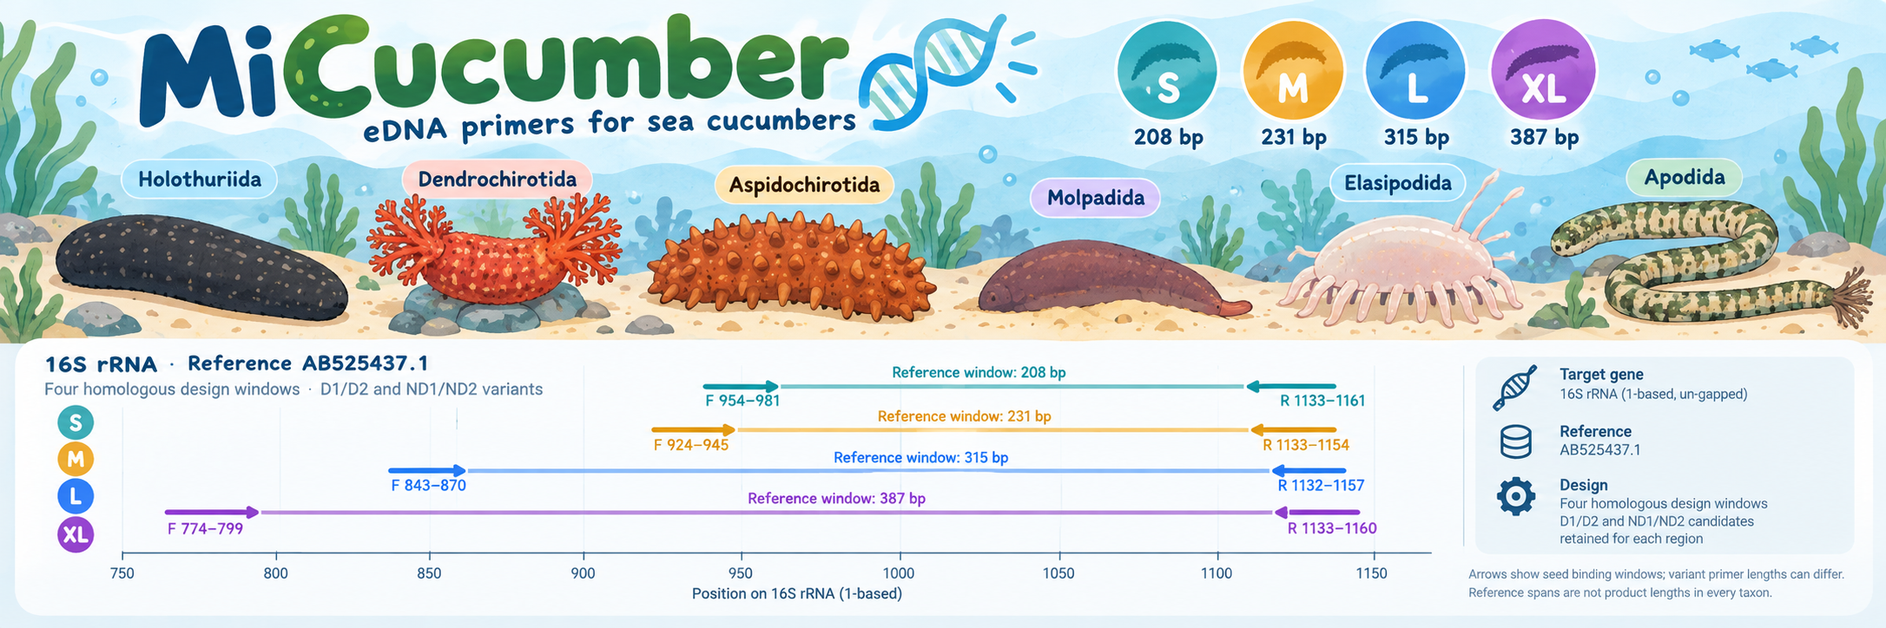
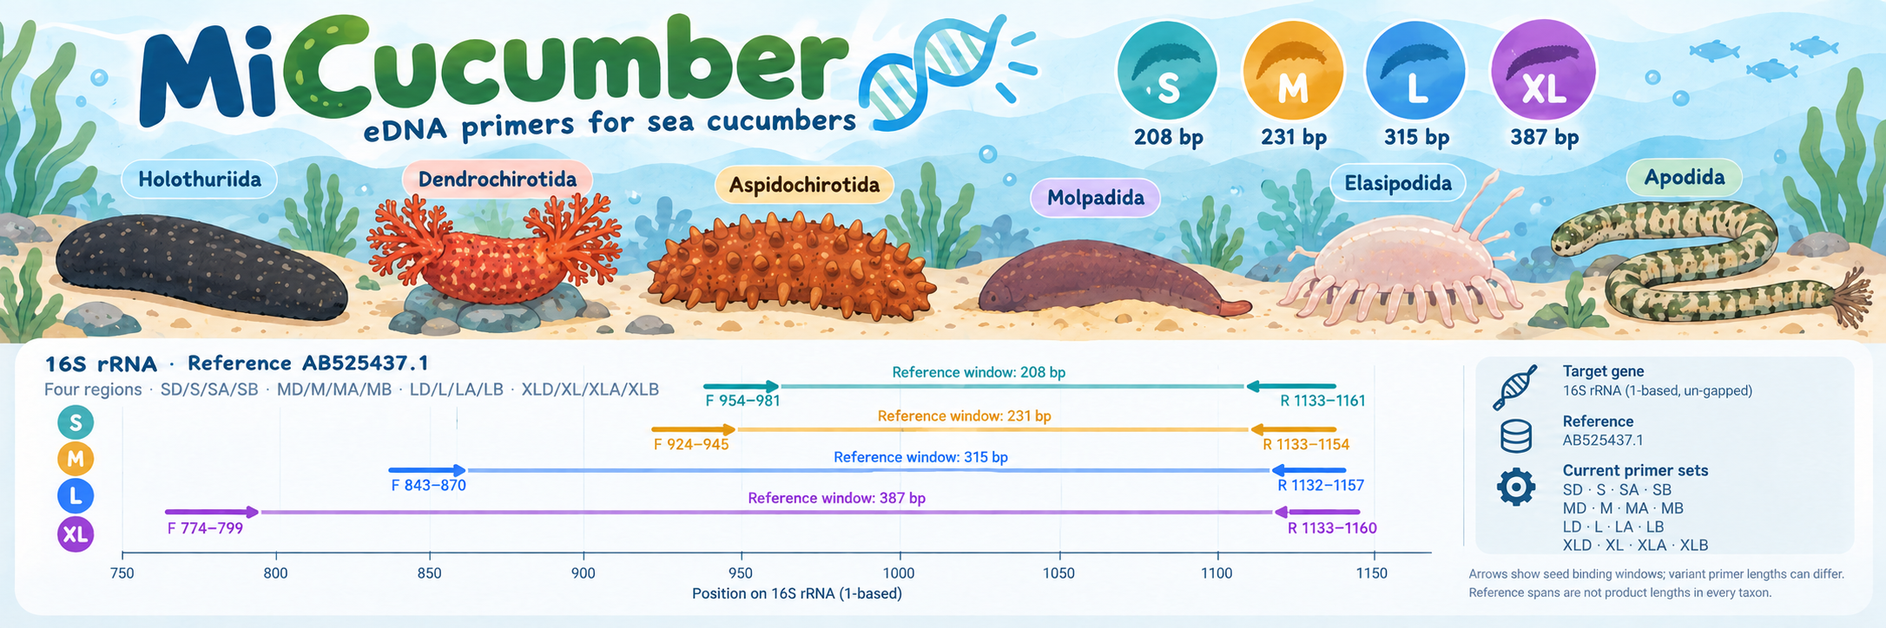
Correct illustrated primer names and reconcile current bilingual documentation

diff --git a/report.html b/report.html
@@ -1,1 +1,1 @@
-<!doctype html><html lang="zh-CN"><meta charset="utf-8"><meta name="viewport" content="width=device-width,initial-scale=1"><title>MiCucumber S M L XL</title><style>body{max-width:1280px;margin:40px auto;padding:0 24px;font:16px/1.7 system-ui;color:#19392f;background:#f7faf8}h1,h2,a{color:#176344}.scroll{overflow-x:auto}table{border-collapse:collapse;background:white;width:100%;font-size:13px}td,th{padding:10px;border-bottom:1px solid #cbdad3;text-align:left;white-space:nowrap}th{background:#dfede5}p{max-width:1100px}</style><img src="figures/MiCucumber_overview.png" style="width:100%" alt="MiCucumber overview"><p>插画中的配对标注以当前表格为准 / Current pair names are given in the tables below.</p><h1>MiCucumber · S / M / L / XL</h1><p>简并：SD、MD、LD、XLD；普通单对：S、M、L、XL；普通两对：SA/SB、MA/MB、LA/LB、XLA/XLB。<br>D: degenerate; A/B: component pairs. A+B denotes their combined coverage.</p><p><b>建议首先实验验证 S-D-1pair；无简并版保留为对照，S-original有较高非目标命中。/ Prioritize S-D-1pair for experimental evaluation; ND sets are comparators, and S-original has extensive background hits.</b> 所有方案尚无湿实验验证。 / No wet-lab validation.</p><p><a href="README.zh-CN.md">中文概览</a> · <a href="README.md">English overview</a> · <a href="sequences/primer_pairs.csv">全部序列 CSV</a> · <a href="sequences/primers.fasta">FASTA</a> · <a href="docs/REPRODUCIBILITY.md">复现 / Reproduction</a></p><img src="figures/amplicon_regions.en.svg" alt="S M L XL reference design windows" style="width:100%;max-width:1100px"><p>共同面板151个分类名称标签、351个标签内单倍型；非Apodida为145个标签。标签及标签内单倍型等权。背景命中以5,600条记录的accession并集计，不是reads比例。/ Common panel: 151 name labels, 351 within-label haplotypes; 145 non-Apodida labels. Equal label and within-label haplotype weighting. Background counts are accession unions, not read fractions.</p><h2>各长度匹配情况 / Matching by length</h2><p>蓝绿色：完全匹配；金黄色：允许错配命中；浅灰色：未命中。每列为一个单倍型，柱图为非Apodida加权比例。A、B单独显示，并给出合并覆盖。<br>Teal: exact; gold: mismatch-tolerant hit; light gray: missed. Heatmaps show individual haplotypes; bars use non-Apodida weights.</p><img src="figures/matching_S.png" style="width:100%" alt="S matching"><img src="figures/matching_M.png" style="width:100%" alt="M matching"><img src="figures/matching_L.png" style="width:100%" alt="L matching"><img src="figures/matching_XL.png" style="width:100%" alt="XL matching"><p><a href="results/matching/summary.csv">匹配汇总 / Summary</a> · <a href="results/matching/detection.csv">逐条结果 / Per-reference results</a></p><h2>简并版 / Degenerate</h2><div class="scroll"><table><thead><tr><th>方案 / Portfolio</th><th>非Apodida覆盖 / Coverage</th><th>非Apodida完全匹配 / Exact</th><th>全部目标覆盖 / All coverage</th><th>全部目标完全匹配 / All exact</th><th>WC≤3</th><th>GT≤2</th><th>WC≤4</th></tr></thead><tbody><tr><td>SD</td><td>87.45%</td><td>27.48%</td><td>83.97%</td><td>26.39%</td><td>2</td><td>0</td><td>742</td></tr><tr><td>MD</td><td>56.90%</td><td>9.43%</td><td>54.64%</td><td>9.05%</td><td>0</td><td>0</td><td>130</td></tr><tr><td>LD</td><td>70.26%</td><td>33.63%</td><td>67.47%</td><td>32.30%</td><td>4</td><td>0</td><td>109</td></tr><tr><td>XLD</td><td>48.34%</td><td>9.71%</td><td>46.42%</td><td>9.33%</td><td>0</td><td>0</td><td>486</td></tr></tbody></table></div><h2>无简并对照 / Nondegenerate comparators</h2><div class="scroll"><table><thead><tr><th>方案 / Portfolio</th><th>非Apodida覆盖 / Coverage</th><th>非Apodida完全匹配 / Exact</th><th>全部目标覆盖 / All coverage</th><th>全部目标完全匹配 / All exact</th><th>WC≤3</th><th>GT≤2</th><th>WC≤4</th></tr></thead><tbody><tr><td>S</td><td>56.78%</td><td>0.34%</td><td>54.53%</td><td>0.33%</td><td>0</td><td>0</td><td>2</td></tr><tr><td>SA+SB</td><td>71.96%</td><td>0.34%</td><td>69.10%</td><td>0.33%</td><td>0</td><td>0</td><td>2</td></tr><tr><td>M</td><td>14.05%</td><td>0.00%</td><td>13.49%</td><td>0.00%</td><td>0</td><td>0</td><td>0</td></tr><tr><td>MA+MB</td><td>23.70%</td><td>3.91%</td><td>22.76%</td><td>3.75%</td><td>0</td><td>0</td><td>0</td></tr><tr><td>L</td><td>35.24%</td><td>3.97%</td><td>33.84%</td><td>3.81%</td><td>0</td><td>0</td><td>0</td></tr><tr><td>LA+LB</td><td>46.68%</td><td>8.00%</td><td>44.83%</td><td>7.69%</td><td>0</td><td>0</td><td>0</td></tr><tr><td>XL</td><td>22.88%</td><td>2.93%</td><td>21.97%</td><td>2.81%</td><td>0</td><td>0</td><td>0</td></tr><tr><td>XLA+XLB</td><td>28.86%</td><td>5.23%</td><td>27.71%</td><td>5.02%</td><td>0</td><td>0</td><td>1</td></tr></tbody></table></div><h2>原版对照 / Original control</h2><div class="scroll"><table><thead><tr><th>方案 / Portfolio</th><th>非Apodida覆盖 / Coverage</th><th>非Apodida完全匹配 / Exact</th><th>全部目标覆盖 / All coverage</th><th>全部目标完全匹配 / All exact</th><th>WC≤3</th><th>GT≤2</th><th>WC≤4</th></tr></thead><tbody><tr><td>MiCucumber-S-original</td><td>89.84%</td><td>76.75%</td><td>86.27%</td><td>73.70%</td><td>3248</td><td>3401</td><td>3923</td></tr></tbody></table></div><p><a href="results/degenerate/missed_taxa.csv">D 漏检类群</a> · <a href="results/nondegenerate/missed_taxa.csv">ND 漏检类群</a> · <a href="results/degenerate/offtargets.csv">D 非目标命中</a> · <a href="results/nondegenerate/offtargets.csv">ND 非目标命中</a></p><p>Copyright © 2026 Fei Xia (GUIBA-EX). <a href="COPYRIGHT.md">All rights reserved / 著作权声明</a>.</p><h2>配对名称与序列 / Pair names and sequences</h2><div class="scroll"><table><tr><th>Pair name</th><th>F (5′→3′)</th><th>R (5′→3′)</th></tr><tr><td>SD</td><td>HHAGWAAGACGAGAAGACCCTGTCGAGC</td><td>TCCCTGCGGTAACTTTTTCYGWTTWCCAR</td></tr><tr><td>MD</td><td>YTTCTAYYTAYGTGAAGAAGCR</td><td>GGTAACTTTTTCYGWWTWCCAR</td></tr><tr><td>LD</td><td>GCATAATCAYTTGTCTYTTAAATGRRGA</td><td>TGCGGTAACTTTTTCYGWTTWCCARW</td></tr><tr><td>XLD</td><td>YATAARGGGTCMMGCCTGCCCAGTGG</td><td>CCCTGCGGTAACTTTTTCYGWWTWCCAR</td></tr><tr><td>S</td><td>AAAGAAAGACGAGAAGACCCTGTCGAGC</td><td>TCCCTGCGGTAACTTTTTCCGATTACCAG</td></tr><tr><td>SA</td><td>AAAGAAAGACGAGAAGACCCTGTCGAGC</td><td>TCCCTGCGGTAACTTTTTCCGATTACCAG</td></tr><tr><td>SB</td><td>AAAGAAAGACGAGAAGACCCTGTCGAGC</td><td>TCCCTGCGGTAACTTTTTCCGTTTTCCAA</td></tr><tr><td>M</td><td>CTTCTATTTACGTGAAGAAGCG</td><td>GGTAACTTTTTCTGTTTACCAG</td></tr><tr><td>MA</td><td>CTTCTATTTACGTGAAGAAGCG</td><td>GGTAACTTTTTCCGTTTTCCAA</td></tr><tr><td>MB</td><td>CTTCTATTTACGTGAAGAAGCG</td><td>GGTAACTTTTTCTGTTTACCAG</td></tr><tr><td>L</td><td>GCATAATCATTTGTCTTTTAAATGGAGA</td><td>TGCGGTAACTTTTTCCGATTACCAGT</td></tr><tr><td>LA</td><td>GCATAATCACTTGTCTCTTAAATGGGGA</td><td>TGCGGTAACTTTTTCCGTTTTCCAGA</td></tr><tr><td>LB</td><td>GCATAATCATTTGTCTTTTAAATGGAGA</td><td>TGCGGTAACTTTTTCCGATTACCAGT</td></tr><tr><td>XL</td><td>TATAAAGGGTCCCGCCTGCCCAGTGG</td><td>CCCTGCGGTAACTTTTTCCGATTACCAG</td></tr><tr><td>XLA</td><td>CATAAGGGGTCAAGCCTGCCCAGTGG</td><td>CCCTGCGGTAACTTTTTCCGTTTTCCAA</td></tr><tr><td>XLB</td><td>TATAAAGGGTCCCGCCTGCCCAGTGG</td><td>CCCTGCGGTAACTTTTTCCGATTACCAG</td></tr><tr><td>MiCucumber-S-original</td><td>GWWAGACGARAAGACCCTG</td><td>CCCTRCGGTAACTWTTTCYG</td></tr></table></div></html>
+<!doctype html><html lang="zh-CN"><meta charset="utf-8"><meta name="viewport" content="width=device-width,initial-scale=1"><title>MiCucumber S M L XL</title><style>body{max-width:1280px;margin:40px auto;padding:0 24px;font:16px/1.7 system-ui;color:#19392f;background:#f7faf8}h1,h2,a{color:#176344}.scroll{overflow-x:auto}table{border-collapse:collapse;background:white;width:100%;font-size:13px}td,th{padding:10px;border-bottom:1px solid #cbdad3;text-align:left;white-space:nowrap}th{background:#dfede5}p{max-width:1100px}</style><img src="figures/MiCucumber_overview.png" style="width:100%" alt="MiCucumber overview"><h1>MiCucumber · S / M / L / XL</h1><p>简并：SD、MD、LD、XLD；普通单对：S、M、L、XL；普通两对：SA/SB、MA/MB、LA/LB、XLA/XLB。<br>D: degenerate; A/B: component pairs. A+B denotes their combined coverage.</p><p><b>建议首先实验验证 SD；无简并版保留为对照，S-original有较高非目标命中。/ Prioritize SD for experimental evaluation; Nondegenerate sets are comparators, and S-original has extensive background hits.</b> 所有方案尚无湿实验验证。 / No wet-lab validation.</p><p><a href="README.zh-CN.md">中文概览</a> · <a href="README.md">English overview</a> · <a href="sequences/primer_pairs.csv">全部序列 CSV</a> · <a href="sequences/primers.fasta">FASTA</a> · <a href="docs/REPRODUCIBILITY.md">复现 / Reproduction</a></p><img src="figures/amplicon_regions.en.svg" alt="S M L XL reference design windows" style="width:100%;max-width:1100px"><p>共同面板151个分类名称标签、351个标签内单倍型；非Apodida为145个标签。标签及标签内单倍型等权。背景命中以5,600条记录的accession并集计，不是reads比例。/ Common panel: 151 name labels, 351 within-label haplotypes; 145 non-Apodida labels. Equal label and within-label haplotype weighting. Background counts are accession unions, not read fractions.</p><h2>各长度匹配情况 / Matching by length</h2><p>蓝绿色：完全匹配；金黄色：允许错配命中；浅灰色：未命中。每列为一个单倍型，柱图为非Apodida加权比例。A、B单独显示，并给出合并覆盖。<br>Teal: exact; gold: mismatch-tolerant hit; light gray: missed. Heatmaps show individual haplotypes; bars use non-Apodida weights.</p><img src="figures/matching_S.png" style="width:100%" alt="S matching"><img src="figures/matching_M.png" style="width:100%" alt="M matching"><img src="figures/matching_L.png" style="width:100%" alt="L matching"><img src="figures/matching_XL.png" style="width:100%" alt="XL matching"><p><a href="results/matching/summary.csv">匹配汇总 / Summary</a> · <a href="results/matching/detection.csv">逐条结果 / Per-reference results</a></p><h2>简并版 / Degenerate</h2><div class="scroll"><table><thead><tr><th>方案 / Portfolio</th><th>非Apodida覆盖 / Coverage</th><th>非Apodida完全匹配 / Exact</th><th>全部目标覆盖 / All coverage</th><th>全部目标完全匹配 / All exact</th><th>WC≤3</th><th>GT≤2</th><th>WC≤4</th></tr></thead><tbody><tr><td>SD</td><td>87.45%</td><td>27.48%</td><td>83.97%</td><td>26.39%</td><td>2</td><td>0</td><td>742</td></tr><tr><td>MD</td><td>56.90%</td><td>9.43%</td><td>54.64%</td><td>9.05%</td><td>0</td><td>0</td><td>130</td></tr><tr><td>LD</td><td>70.26%</td><td>33.63%</td><td>67.47%</td><td>32.30%</td><td>4</td><td>0</td><td>109</td></tr><tr><td>XLD</td><td>48.34%</td><td>9.71%</td><td>46.42%</td><td>9.33%</td><td>0</td><td>0</td><td>486</td></tr></tbody></table></div><h2>无简并对照 / Nondegenerate comparators</h2><div class="scroll"><table><thead><tr><th>方案 / Portfolio</th><th>非Apodida覆盖 / Coverage</th><th>非Apodida完全匹配 / Exact</th><th>全部目标覆盖 / All coverage</th><th>全部目标完全匹配 / All exact</th><th>WC≤3</th><th>GT≤2</th><th>WC≤4</th></tr></thead><tbody><tr><td>S</td><td>56.78%</td><td>0.34%</td><td>54.53%</td><td>0.33%</td><td>0</td><td>0</td><td>2</td></tr><tr><td>SA+SB</td><td>71.96%</td><td>0.34%</td><td>69.10%</td><td>0.33%</td><td>0</td><td>0</td><td>2</td></tr><tr><td>M</td><td>14.05%</td><td>0.00%</td><td>13.49%</td><td>0.00%</td><td>0</td><td>0</td><td>0</td></tr><tr><td>MA+MB</td><td>23.70%</td><td>3.91%</td><td>22.76%</td><td>3.75%</td><td>0</td><td>0</td><td>0</td></tr><tr><td>L</td><td>35.24%</td><td>3.97%</td><td>33.84%</td><td>3.81%</td><td>0</td><td>0</td><td>0</td></tr><tr><td>LA+LB</td><td>46.68%</td><td>8.00%</td><td>44.83%</td><td>7.69%</td><td>0</td><td>0</td><td>0</td></tr><tr><td>XL</td><td>22.88%</td><td>2.93%</td><td>21.97%</td><td>2.81%</td><td>0</td><td>0</td><td>0</td></tr><tr><td>XLA+XLB</td><td>28.86%</td><td>5.23%</td><td>27.71%</td><td>5.02%</td><td>0</td><td>0</td><td>1</td></tr></tbody></table></div><h2>原版对照 / Original control</h2><div class="scroll"><table><thead><tr><th>方案 / Portfolio</th><th>非Apodida覆盖 / Coverage</th><th>非Apodida完全匹配 / Exact</th><th>全部目标覆盖 / All coverage</th><th>全部目标完全匹配 / All exact</th><th>WC≤3</th><th>GT≤2</th><th>WC≤4</th></tr></thead><tbody><tr><td>MiCucumber-S-original</td><td>89.84%</td><td>76.75%</td><td>86.27%</td><td>73.70%</td><td>3248</td><td>3401</td><td>3923</td></tr></tbody></table></div><p><a href="results/degenerate/missed_taxa.csv">简并引物漏检类群</a> · <a href="results/nondegenerate/missed_taxa.csv">普通引物漏检类群</a> · <a href="results/degenerate/offtargets.csv">简并引物非目标命中</a> · <a href="results/nondegenerate/offtargets.csv">普通引物非目标命中</a></p><p>Copyright © 2026 Fei Xia (GUIBA-EX). <a href="COPYRIGHT.md">All rights reserved / 著作权声明</a>.</p><h2>配对名称与序列 / Pair names and sequences</h2><div class="scroll"><table><tr><th>Pair name</th><th>F (5′→3′)</th><th>R (5′→3′)</th></tr><tr><td>SD</td><td>HHAGWAAGACGAGAAGACCCTGTCGAGC</td><td>TCCCTGCGGTAACTTTTTCYGWTTWCCAR</td></tr><tr><td>MD</td><td>YTTCTAYYTAYGTGAAGAAGCR</td><td>GGTAACTTTTTCYGWWTWCCAR</td></tr><tr><td>LD</td><td>GCATAATCAYTTGTCTYTTAAATGRRGA</td><td>TGCGGTAACTTTTTCYGWTTWCCARW</td></tr><tr><td>XLD</td><td>YATAARGGGTCMMGCCTGCCCAGTGG</td><td>CCCTGCGGTAACTTTTTCYGWWTWCCAR</td></tr><tr><td>S</td><td>AAAGAAAGACGAGAAGACCCTGTCGAGC</td><td>TCCCTGCGGTAACTTTTTCCGATTACCAG</td></tr><tr><td>SA</td><td>AAAGAAAGACGAGAAGACCCTGTCGAGC</td><td>TCCCTGCGGTAACTTTTTCCGATTACCAG</td></tr><tr><td>SB</td><td>AAAGAAAGACGAGAAGACCCTGTCGAGC</td><td>TCCCTGCGGTAACTTTTTCCGTTTTCCAA</td></tr><tr><td>M</td><td>CTTCTATTTACGTGAAGAAGCG</td><td>GGTAACTTTTTCTGTTTACCAG</td></tr><tr><td>MA</td><td>CTTCTATTTACGTGAAGAAGCG</td><td>GGTAACTTTTTCCGTTTTCCAA</td></tr><tr><td>MB</td><td>CTTCTATTTACGTGAAGAAGCG</td><td>GGTAACTTTTTCTGTTTACCAG</td></tr><tr><td>L</td><td>GCATAATCATTTGTCTTTTAAATGGAGA</td><td>TGCGGTAACTTTTTCCGATTACCAGT</td></tr><tr><td>LA</td><td>GCATAATCACTTGTCTCTTAAATGGGGA</td><td>TGCGGTAACTTTTTCCGTTTTCCAGA</td></tr><tr><td>LB</td><td>GCATAATCATTTGTCTTTTAAATGGAGA</td><td>TGCGGTAACTTTTTCCGATTACCAGT</td></tr><tr><td>XL</td><td>TATAAAGGGTCCCGCCTGCCCAGTGG</td><td>CCCTGCGGTAACTTTTTCCGATTACCAG</td></tr><tr><td>XLA</td><td>CATAAGGGGTCAAGCCTGCCCAGTGG</td><td>CCCTGCGGTAACTTTTTCCGTTTTCCAA</td></tr><tr><td>XLB</td><td>TATAAAGGGTCCCGCCTGCCCAGTGG</td><td>CCCTGCGGTAACTTTTTCCGATTACCAG</td></tr><tr><td>MiCucumber-S-original</td><td>GWWAGACGARAAGACCCTG</td><td>CCCTRCGGTAACTWTTTCYG</td></tr></table></div></html>

diff --git a/scripts/reproduce.py b/scripts/reproduce.py
@@ -35,7 +35,7 @@ def main():
   run([sys.executable,work/'work/micucumber_compact/optimize.py'],work)
   source=work/'outputs/MiCucumber_compact';data=work/'work/micucumber_round2/optimization'
   schemes={s['name']:s for s in json.loads((source/'schemes.json').read_text())};pairs={s['name']:s for s in json.loads((data/'shortlist_fast.json').read_text())}
-  chosen=[schemes[f'MiCucumber-{loc}_N{n}_B5_T{2 if n==2 and loc in ("v4opt","M") else 1}'] for loc in ['v4opt','S','M','L'] for n in [1,2]]
+  chosen=[schemes[f'MiCucumber-{loc}_N{n}_B5_T{2 if n==2 and loc in ("v4opt","M") else 1}'] for loc in ['v4opt','S','M','L'] for n in [1]]
   comparisons=read(source/'all_tradeoffs.csv');seq=[];summary=[]
   for s in chosen:
    summary.extend(r for r in comparisons if r['scheme']==s['name'])

diff --git a/docs/METHODS.md b/docs/METHODS.md
@@ -4,7 +4,7 @@
 
 ## Scope and reference data
 
-This document describes the current S/M/L/XL one-/two-pair portfolios. Earlier 6–9-pair sets are historical and are preserved in the archive. Original v4 is retained as S-original, with both sequences and all IUPAC symbols unchanged. Naming does not imply a new design run.
+Each region retains one degenerate pair (SD, MD, LD or XLD), a single nondegenerate pair (S, M, L or XL), and an A/B nondegenerate option. S-original is the separate original control.
 
 The round-two frozen dataset contains 1,848 target records and 5,600 background records. Two additional Apodida 16S regions were inferred by homology from unannotated mitogenomes; their orientation was corrected against AB525437.1. Six UNVERIFIED records were excluded. These inferred regions are not equivalent to curated annotations. The source sequences, accession metadata, orientation audit and reference provenance are in the round-two reproduction bundle. No new database acquisition is claimed for this renaming update.
 
@@ -14,7 +14,7 @@ The common panel comprises 151 binomial-format taxonomic name labels and 351 uni
 
 Target binding is scanned on both strands of the original sequences, not inferred solely from an alignment column. Target products must be 150–500 bp with at least 50 nt internal sequence. **Coverage** allows at most two mismatches in each primer, with the terminal three 3′ bases exactly compatible. **Exact matching** requires zero mismatches in both primers; for degenerate primers, IUPAC compatibility counts as matching. An ambiguous target binding base does not count as a confirmed hit. No binding-site indel model is fitted.
 
-The reference coordinate plot shows homologous seed windows on the extracted ungapped 16S sequence of AB525437.1. Window spans are not universal product sizes, and modified oligos may differ in length from the seed. The current plot does not reuse historical panel-conservation percentages or multi-pair counts.
+The reference coordinate plot shows homologous seed windows on the extracted ungapped 16S sequence of AB525437.1. Window spans are not universal product sizes, and modified oligos may differ in length from the seed.
 
 ## Background screening
 
@@ -28,7 +28,7 @@ Retain one pair per region from the verified candidate pool. First maximize mean
 
 ## Nondegenerate portfolios: nondegenerate sets
 
-Enumerate all concrete A/C/G/T variants of the eight parent pairs in the current two-pair degenerate portfolios: 2,644 distinct pair candidates within their respective regions. Do not create arbitrary F/R combinations across different parent pairs or search new binding locations. Apply the structural threshold below, then exhaustively compare one- and two-pair subsets using the same coverage/exact objective and tolerances: SA+SB and LA+LB use two points; all others one point.
+Enumerate all concrete A/C/G/T variants of eight frozen parent pairs in the design input: 2,644 distinct pair candidates within their respective regions. Do not create arbitrary F/R combinations across different parent pairs or search new binding locations. Apply the structural threshold below, then exhaustively compare one- and two-pair subsets using the same coverage/exact objective and tolerances: SA+SB and LA+LB use two points; all others one point.
 
 Python vectorized binding predictions were compared against an independently implemented C++ exhaustive full-window, both-strand scan. Coverage and exact-match accession sets agreed for all selected pairs; original-control panel predictions were also checked, totaling 31,428 Boolean comparisons. Selected nondegenerate portfolios have no WC≤3 or GT≤2 hits in this frozen background set, but this does not establish experimental specificity. Their loss of target coverage and exact matching is substantial, so they remain comparators rather than replacements for the degenerate sets.
 
@@ -38,6 +38,6 @@ Primer3-py 2.3.1: 50 mM monovalent salt, 1.5 mM Mg²⁺ and 0.6 mM dNTP. Degener
 
 Nondegenerate candidates are evaluated at 50 and 200 nM per oligo; hairpin, homodimer and F/R heterodimer structural Tm must remain below 55°C. F/R melting-temperature differences are reported, not used to assert a validated annealing temperature. Original S-original is preserved as a historical control. These are computational checks, not a PCR recipe or whole-pool validation.
 
-## Limits and historical evidence
+## Evaluation scope
 
 References are incompletely sampled and reused for design and evaluation; no independent holdout validation, wet-lab sensitivity/specificity estimate, or finalized PCR recipe is supplied. Small mismatch-model background counts do not prove low environmental amplification. Historical methods, previous larger portfolios, earlier taxonomy and source identifiers are retained only as frozen evidence. See the naming map before comparing old and new documents.

diff --git a/docs/REPRODUCIBILITY.md b/docs/REPRODUCIBILITY.md
@@ -24,9 +24,9 @@ python scripts/reproduce.py nondegenerate --work-dir reproduction-work
 
 The two modes use separate subdirectories. For a repeat run, provide a fresh `--work-dir`; existing reproduction folders are not overwritten. No network is required after installing dependencies. Original input bundles remain unchanged.
 
-- **Degenerate:** rerun exhaustive 1–4-pair subset calculations from frozen per-pair target/background evidence, select the eight current one-/two-pair portfolios, normalize names, and compare sequences and common/own-region metrics against published tables. This route does not rescan raw reference sequences or rediscover candidate sites. Current-name outputs are under `degenerate/current-results/`.
+- **Degenerate:** rerun exhaustive 1–4-pair subset calculations from frozen per-pair target/background evidence, export the four current single-pair degenerate portfolios, normalize names, and compare sequences and common/own-region metrics against published tables. This route does not rescan raw reference sequences or rediscover candidate sites. Current-name outputs are under `degenerate/current-results/`.
 - **Nondegenerate:** re-enumerate 2,644 concrete candidates; optimize one-/two-pair subsets; compile and run the independent whole-sequence target/background scanner; compare predictions; retain the original control; normalize final exports and check sequences and metrics. Current-name outputs are under `nondegenerate/current-results/`.
-- **Round-two upstream scan:** `python scripts/reproduce.py round2 --work-dir reproduction-work` runs the frozen independent reference revalidation. It retains source identifiers in intermediate evidence and does not itself emit the 17 current portfolios.
+- **Round-two upstream scan:** `python scripts/reproduce.py round2 --work-dir reproduction-work` runs the frozen independent reference revalidation. It retains source identifiers in intermediate evidence and does not itself emit the 13 current portfolios.
 
 The current-name degenerate and nondegenerate adapters were rerun during this reorganization. Their selected sequences and metrics agree with the pre-renaming results; see [reproduction checks](../results/reproduction_checks.json). The round-two frozen bundle retains its earlier revalidation evidence; its computation was not changed by this update.
 

diff --git a/docs/REPRODUCIBILITY.zh-CN.md b/docs/REPRODUCIBILITY.zh-CN.md
@@ -24,7 +24,7 @@ python scripts/reproduce.py nondegenerate --work-dir reproduction-work
 
 两种模式使用不同子目录。再次运行时请指定新的`--work-dir`；程序不会覆盖已有复现目录。依赖安装后无需联网，原始输入包保持不变。
 
-- **简并方案：**从冻结逐配对目标/背景证据重算1–4对穷举，选出当前8套1对/2对方案，转换命名，并与发布序列及共同/区域面板指标比较。此入口不重新扫描原始参考，也不重新发现结合位点。新名输出在`degenerate/current-results/`。
+- **简并方案：**从冻结逐配对目标/背景证据重算1–4对穷举，导出当前4套简并单对方案，转换命名，并与发布序列及共同/区域面板指标比较。此入口不重新扫描原始参考，也不重新发现结合位点。新名输出在`degenerate/current-results/`。
 - **无简并方案：**重新枚举2,644个具体候选、优化1对/2对方案、编译并执行独立全序列目标/背景扫描、核对预测及原版对照，然后转换新名并校验序列与指标。新名输出在`nondegenerate/current-results/`。
 - **第二轮上游扫描：**运行`python scripts/reproduce.py round2 --work-dir reproduction-work`，执行冻结参考的独立复核。中间证据保留源标识，此入口本身不导出当前13套方案。
 

diff --git a/docs/FILES.md b/docs/FILES.md
@@ -7,9 +7,10 @@
 | `sequences/primer_pairs.csv`, `sequences/primers.fasta` | All 13 portfolios, 17 PCR rows, 34 F/R entries / 全部当前方案 |
 | `sequences/MiCucumber-{S,M,L,XL}.{csv,fasta}` | Region-specific exports / 分区域序列 |
 | `sequences/MiCucumber-S-original.fasta` | Unchanged original control / 原样保留的原始对照 |
-| `results/comparison.csv` | 34 rows: 13 portfolios × two panels / 共同与本区域面板 |
+| `results/comparison.csv` | 26 rows: 13 portfolios × two panels / 共同与本区域面板 |
 | `results/degenerate/` | Degenerate selection, sequences, missed taxa, off-targets, thermal and validation evidence / 简并方案证据 |
 | `results/nondegenerate/` | Concrete candidates, selection audit, sequences, comparisons and validation / 无简并方案证据 |
+| `results/matching/` | 21 matching profiles and 7,371 per-reference states / 21组匹配概况与7,371条逐参考状态 |
 | `figures/` | Current region diagrams and coordinate source / 当前区域图与坐标 |
 | `docs/name_mapping.csv` | Row-level old/new names and sequence fingerprints / 逐条命名映射 |
 | `scripts/naming.py` | One-pass naming adapter / 单次命名适配器 |

diff --git a/README.md b/README.md
@@ -1,13 +1,17 @@
 ![MiCucumber overview](figures/MiCucumber_overview.png)
 
-Current pair names: SD, S, SA and SB, with the same pattern for other lengths. One degenerate pair is retained per region.
-
 # MiCucumber
 
 Computational mitochondrial 16S primer candidates for sea cucumbers. The four regions are **S, M, L and XL**, each with one degenerate pair and one-/two-pair nondegenerate options. **S-original** preserves the original control: 13 portfolios in total. [中文](README.zh-CN.md)
 
 ## Portfolio selection
 
+| Region | Degenerate pair | Single nondegenerate pair | Two nondegenerate pairs |
+|---|---|---|---|
+| S | SD | S | SA / SB |
+| M | MD | M | MA / MB |
+| L | LD | L | LA / LB |
+| XL | XLD | XL | XLA / XLB |
 
 - Two pairs mean two independent PCRs. Regions are alternative comparisons; no requirement to run all portfolios on every sample.
 - **Prioritize SD for experimental evaluation.** Nondegenerate sets lose substantial coverage and exact matching and remain comparators. S-original has extensive background hits.

diff --git a/CHANGELOG.md b/CHANGELOG.md
@@ -2,8 +2,9 @@
 
 ## 2026-10-24
 
-- 名称统一为SD/S/SA/SB，其他长度同理。
-- 增加四个长度的匹配图，分别展示每对引物和A+B组合。
-- 导出21组匹配汇总及7,371条参考记录，汇总值与既有结果一致。
+- 顶部插画使用SD/S/SA/SB、MD/M/MA/MB、LD/L/LA/LB、XLD/XL/XLA/XLB。
+- 当前简并方案每个区域仅保留单对；普通方案保留单对及A/B组合。
+- 同步修正双语README、方法、复现说明、文件索引和结果报告。
+- 匹配数据、序列及数值保持不变。
 
-Unified short names and added per-length, per-pair matching plots with exact, mismatch-tolerant and missed states.
+Updated the illustrated header and all current documentation to use the same primer names. Each region retains one degenerate pair and single or A/B nondegenerate options. Sequence and matching results are unchanged.

diff --git a/README.zh-CN.md b/README.zh-CN.md
@@ -1,13 +1,17 @@
 ![MiCucumber overview](figures/MiCucumber_overview.png)
 
-当前配对名称：SD、S、SA、SB（其他长度同理）；简并仅保留单对。
-
 # MiCucumber
 
 海参线粒体16S计算候选引物。当前四个区域统一命名为 **S、M、L、XL**，简并方案仅保留1对，无简并方案保留1对和2对；另保留 **S-original** 原版对照，共13套方案。[English](README.md)
 
 ## 方案选择
 
+| 长度 | 简并单对 | 普通单对 | 普通两对 |
+|---|---|---|---|
+| S | SD | S | SA / SB |
+| M | MD | M | MA / MB |
+| L | LD | L | LA / LB |
+| XL | XLD | XL | XLA / XLB |
 
 - 两对表示两套独立PCR。四个区域为可比较的替代选择，不要求同一样本全部运行。
 - **建议优先实验验证SD。** 无简并版的覆盖与完全匹配损失较大，保留为对照；S-original的非目标命中很多。
